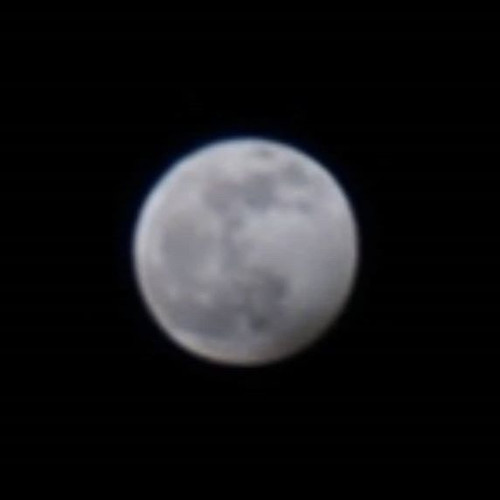
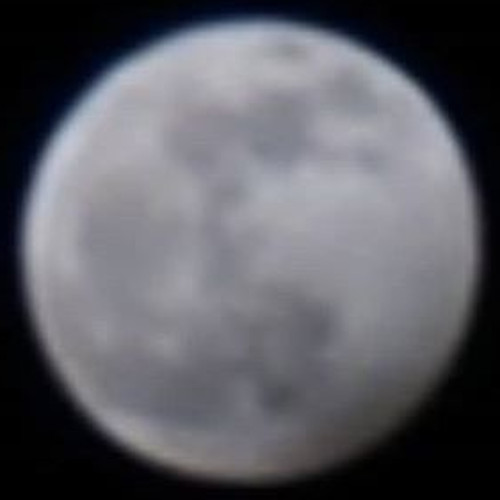
Changed thumbnails for astronoy post; change caption

diff --git a/_posts/blog/2020-05-10-an-amateur-astro-nomer-photographer-s-log.md b/_posts/blog/2020-05-10-an-amateur-astro-nomer-photographer-s-log.md
@@ -151,6 +151,6 @@ I also took my mount to be calibrated and oiled today. The nice man doing it wil
 
 {% include lightbox2_image.html original_image="/assets/img/posts/2020/05/saturn_jupiter_3.JPG" thumbnail_image="/assets/img/posts/2020/05/saturn_jupiter_3_thumb.jpg" caption="Telescope looking out my balcony" set_name="set_1" %}
 
-{% include lightbox2_image.html original_image="/assets/img/posts/2020/05/saturn_jupiter_4.JPG" thumbnail_image="/assets/img/posts/2020/05/saturn_jupiter_4_thumb.jpg" caption="Trained on the moon" set_name="set_1" %}
+{% include lightbox2_image.html original_image="/assets/img/posts/2020/05/saturn_jupiter_4.JPG" thumbnail_image="/assets/img/posts/2020/05/saturn_jupiter_4_thumb.jpg" caption="Trained on the moon; we can see a lensflare caused by the moon xD" set_name="set_1" %}
 
 </div>
